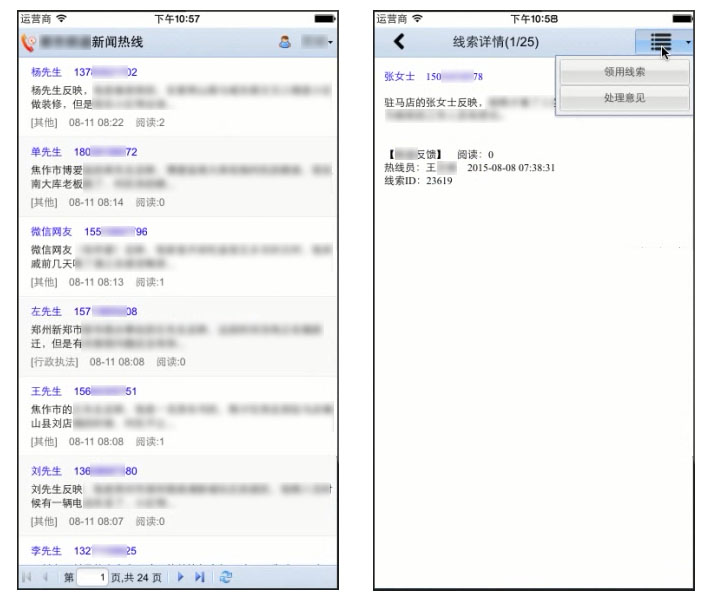
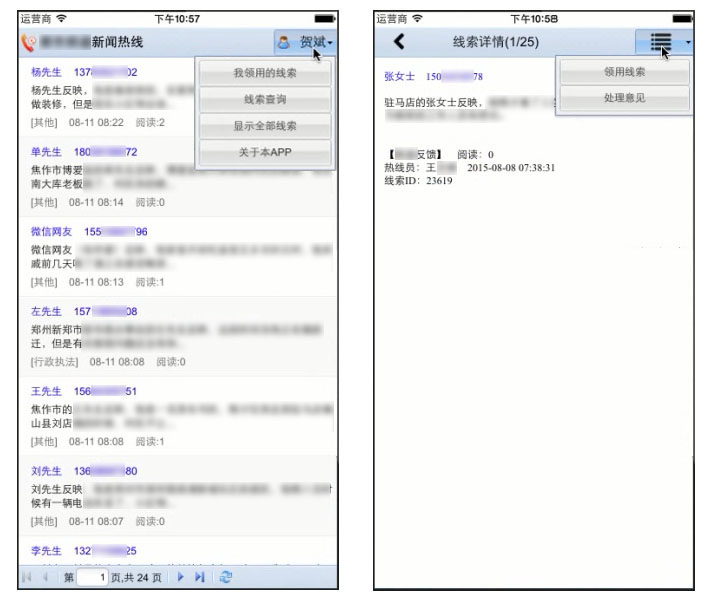
update

Changed region(s): [[0.2462, 0.03, 0.4923, 0.3]]

diff --git a/_posts/2015-08-12-news-clues.md b/_posts/2015-08-12-news-clues.md
@@ -8,13 +8,45 @@ categories: 办公
 * TOC
 {:toc}
 
+## 初次登录
+
+初次使用需要登录，请输入姓名（或姓名的汉语拼音）和初始密码，点击“立即登录”。
+
 `Splash和登录界面：`
 
 ![新闻热线APP Splash和登录]({{ site.imgrepo }}/新闻热线APP-0.jpg)
 
+
+## 查看线索
+
+登录后，主界面如下图所示，显示当前登陆用户可以看到的所有新闻线索。系统根据不同用户，推送不同类型的新闻线索。
+
+列表滑动到顶端，再向下滑动，可以刷新线索。
+
+列表滑动到底端，再向上滑动，可以自动翻页。
+
+
+## 线索详情
+
+主界面中点击一条线索，进入线索详情页面。向左滑动，查看下一条线索；向右滑动，查看上一条线索；向下滑动，关闭线索详情页面。
+
+点击右上角的菜单图标，选择“领用线索”可以领用本条线索。一条线索只能一人领用，领用人可以取消领用。
+
+点击右上角的菜单图标，选择“处理意见”可以填写处理意见内容，点击右上角“保存”按钮将处理意见提交到服务器。
+
 `线索列表界面、线索详情和领用：`
 
 ![新闻热线APP 线索列表和详情]({{ site.imgrepo }}/新闻热线APP-1.jpg)
+
+
+## 我领用的线索
+
+点击右上角的姓名图标，在功能菜单中，点击“我领用的线索”可以看到自己领用的所有线索。如果查看所有线索，请点击功能菜单中的“显示全部线索”。
+
+
+## 查询线索
+
+点击右上角的姓名图标，在功能菜单中，点击“线索查询”，输入关键字，点击“确定”按钮，将会显示符合关键字特征的所有新闻线索。支持多个关键字查询，多个关键字请用空格或+号分隔。如果查看所有线索，请点击功能菜单中的“显示全部线索”。
 
 `线索处理意见、线索搜索：`
 
